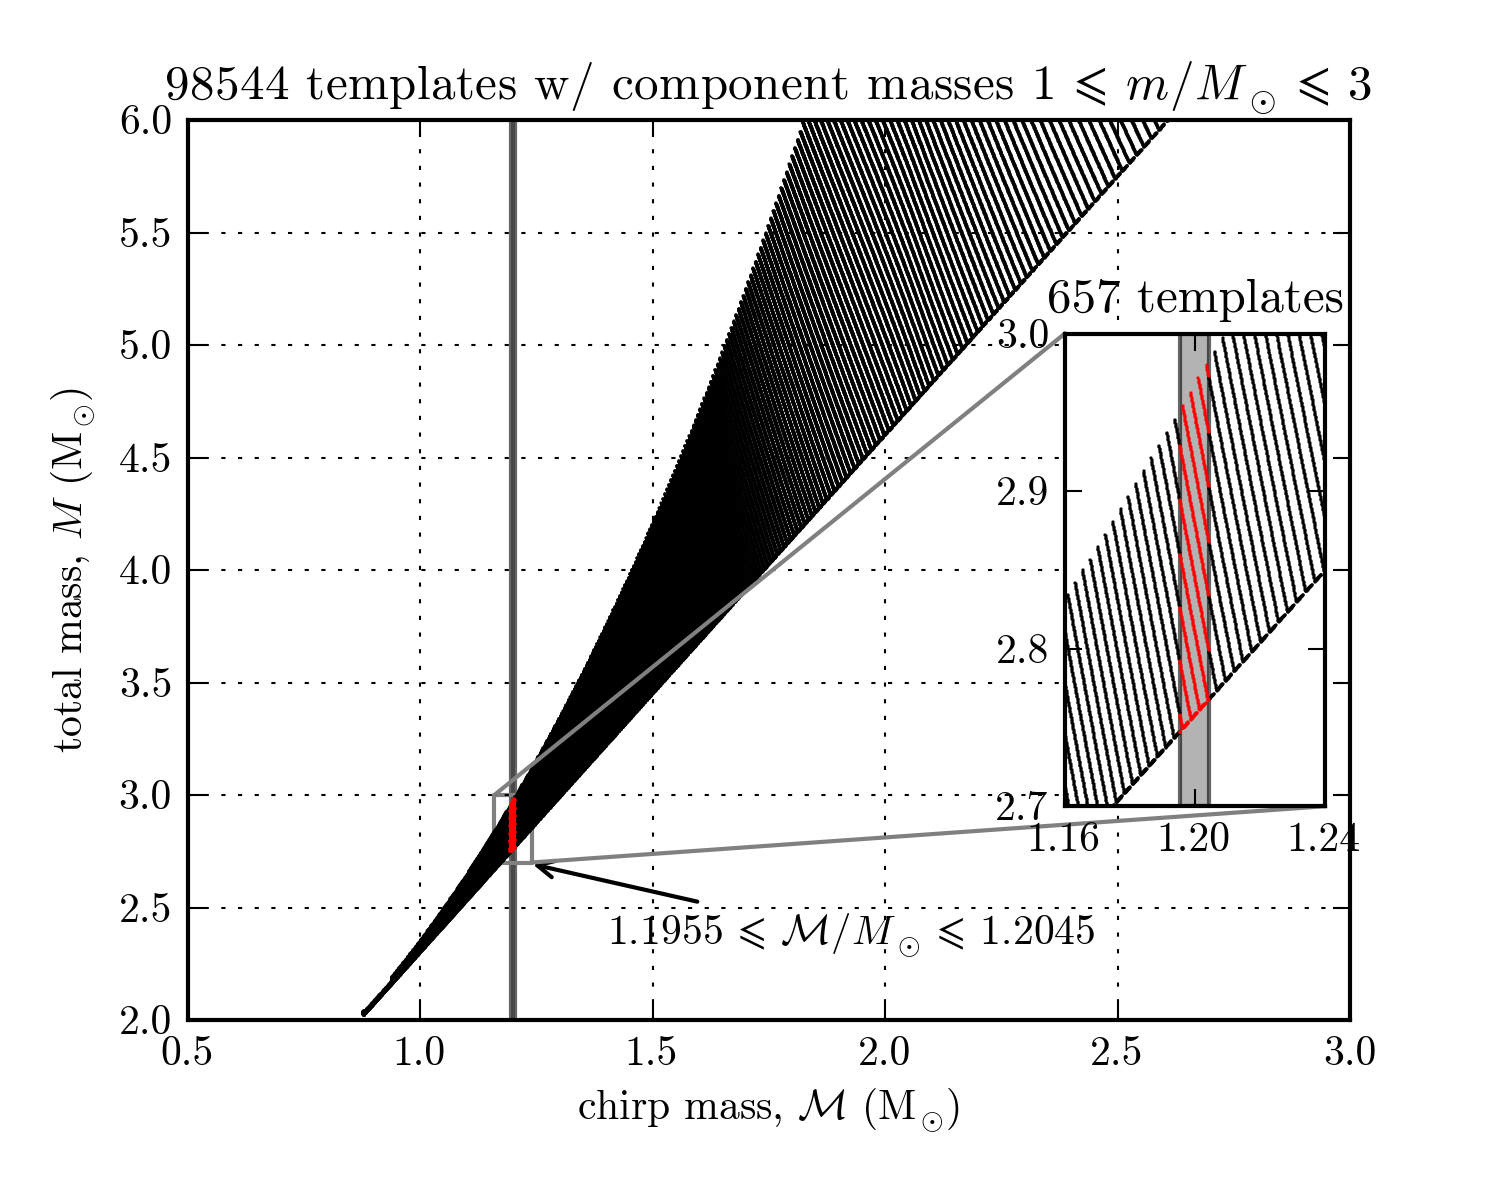
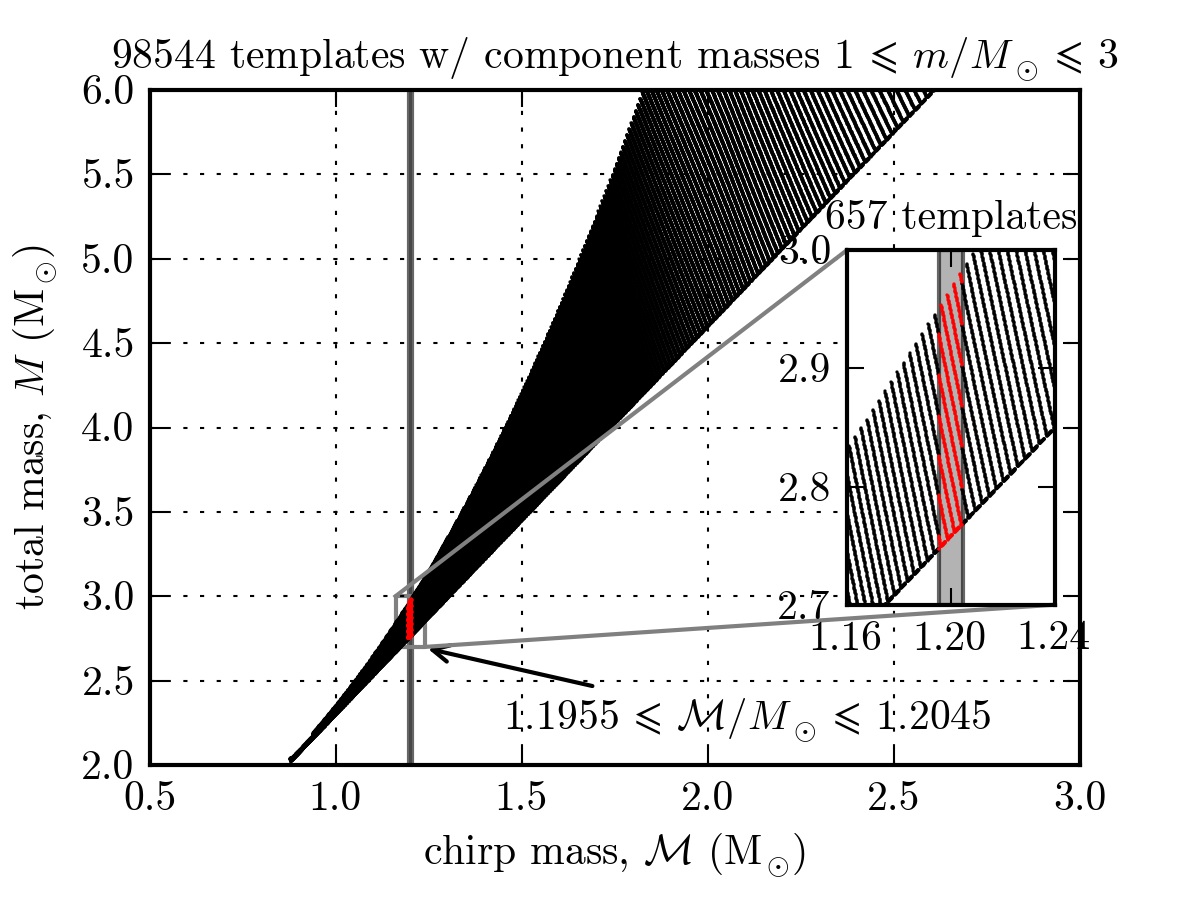
Edited section 3.1
git-svn-id: https://svn.ligo.caltech.edu/svn/6th-Floor-Papers/lloid_paper@897 ccdd05d5-56c1-461a-bf98-85f6876523b4

diff --git a/implementation.tex b/implementation.tex
@@ -5,23 +5,25 @@ In this section we describe an implementation of the \lloid\ method described
 in section \ref{sec:method} suitable for rapid gravitational-wave
 searches for compact binary coalescence.  The \lloid\ method requires several
 computations that can be completed before the analysis is underway.  Thus
-we divide the procedure into two stages 1) an off-line planning stage and 2) an
-online, low-latency filtering stage.  The off-line stage can be done before the
+we divide the procedure into two stages 1) an offline planning stage and 2) an
+online, low-latency filtering stage.  The offline stage can be done before the
 analysis is started and updated asynchronously, whereas the online stage must
 keep up with the detector output and produce search results as rapidly as
 possible.  In the next two subsections we describe what these stages entail.
 
 \subsection{Planning stage}
 
-The choice of filter waveforms and singular value decomposition can be done in
+The choice of templates and the \SVD\ can be done in
 advance and will be valid as long as the detector noise spectrum remains
-roughly constant.  New filter waveforms can be computed asynchronously using
+roughly constant%
+\editorial{I'd rather not go into this.}%
+.  New templates and the \SVD\ can be computed asynchronously using
 updated spectrum estimates as they are available. 
 
 \begin{figure}[htbp]
 	\label{fig:tmpltbank}
 	\begin{center}
-		\includegraphics[scale=0.75]{figures/tmpltbank.png}
+		\includegraphics{figures/tmpltbank.png}
 		\caption{Placement of template parameters used in this paper.  The template bank consists of 98544 templates with component masses $m_1$, $m_2$, between 1~and~3~$M_\odot$.  We shall design a filter bank to search for a small subset of these template parameters with chirp masses $\mathcal M$ between 1.1955~and~1.2045~$M_\odot$.}
 	\end{center}
 \end{figure}
@@ -52,26 +54,25 @@ $f^s$ (Hz) & $(t^{s+1}$&$t^s]$ (s) & $N^s$ & -1 & -2 & -3 & -4 & -5 & -6 \\
 \end{indented}
 \end{table}
 
-The planning stage begins with choosing templates that cover the space of mass
+The planning stage begins with choosing templates that cover the space of source
 parameters with a hexagonal grid~\cite{PhysRevD.76.102004} in order to satisfy
-a minimum match criterion.  This assures a user-specified, maximum loss in \SNR\
-for signals that fall in-between the chosen templates.  Typically the minimum
-match is 97\% corresponding to a maximum mismatch of 3\%.  Next, the templates
-are subdivided into groups of neighbors called ``sub-banks'' that are
+a minimum match criterion.  This assures a prescribed maximum loss in \SNR\
+for signals that fall between the chosen templates.  Typically the minimum
+match is 0.97 corresponding to a maximum mismatch of 0.03.  Next, the templates
+are subdivided into groups of neighbors called \emph{sub-banks} that are
 appropriately sized so that each bank can be efficiently handled by a single
 computer.  The neighbors are chosen to have comparable chirp mass, which produces
-sub-banks with very similar waveforms.  Dividing the mass space into smaller
-sub-banks reduces the computational cost of the singular value decomposition
-and is the approach considered in~\cite{Cannon:2010p10398}.  Using our
-understanding of the time-frequency evolution of the templates, we choose time
-slice boundaries as in \eqref{FIXME} such that all of the templates within a
+sub-banks with similar time-frequency evolution.  Dividing the source parameter space
+into smaller sub-banks reduces the computational cost of the singular value decomposition
+and is the approach considered in~\cite{Cannon:2010p10398}.  We choose time
+slice boundaries as in equation~\eqref{eq:time-sliced-templates} such that all of the templates within a
 sub-bank are sub-critically sampled at progressively lower sample rates.  Next,
 the templates within the sub-bank are realized as \fir\ filter
 coefficients.  For each time slice, the templates are down-sampled to the
 appropriate sample rate.  Finally, the \SVD\ is applied to each time
 slice in the sub-bank in order to produce a set of orthogonal \fir\
 filters and a reconstruction matrix that maps them back to the original
-templates as described in \eqref{FIXME}.  The down-sampled orthogonal
+templates as described in equation~\eqref{eq:svddecomp}.  The down-sampled orthogonal
 \fir\ filter coefficients, the reconstruction matrix, and the time slice
 boundaries are all saved to disk.
 
